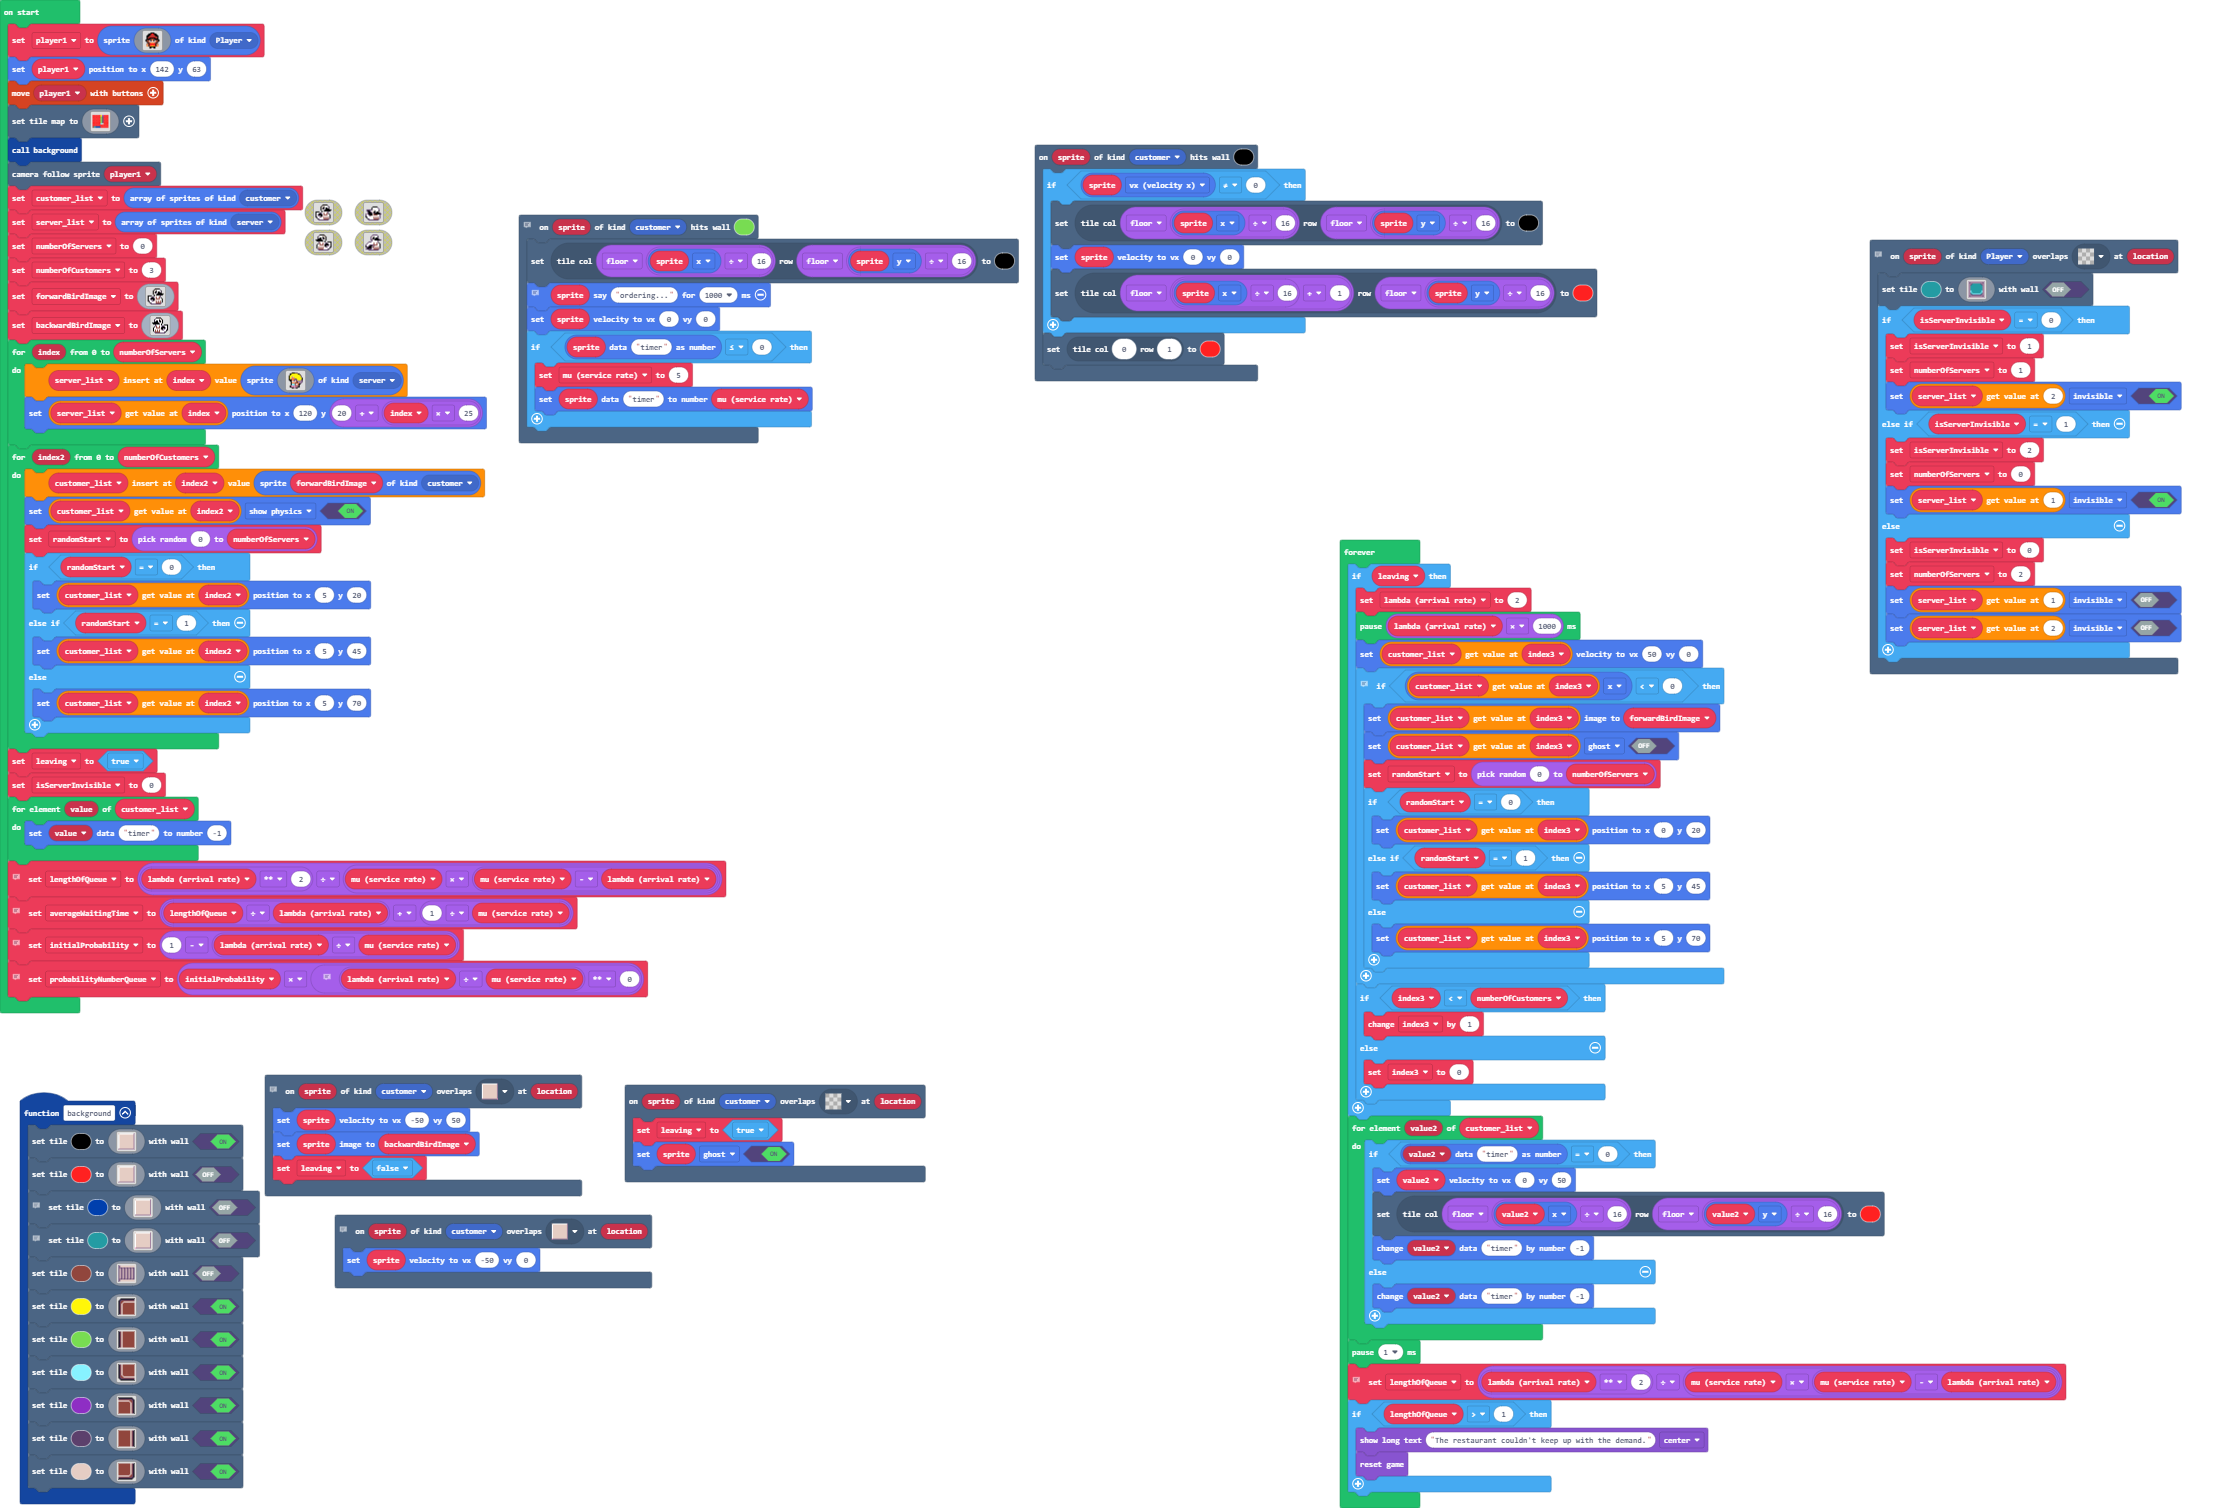
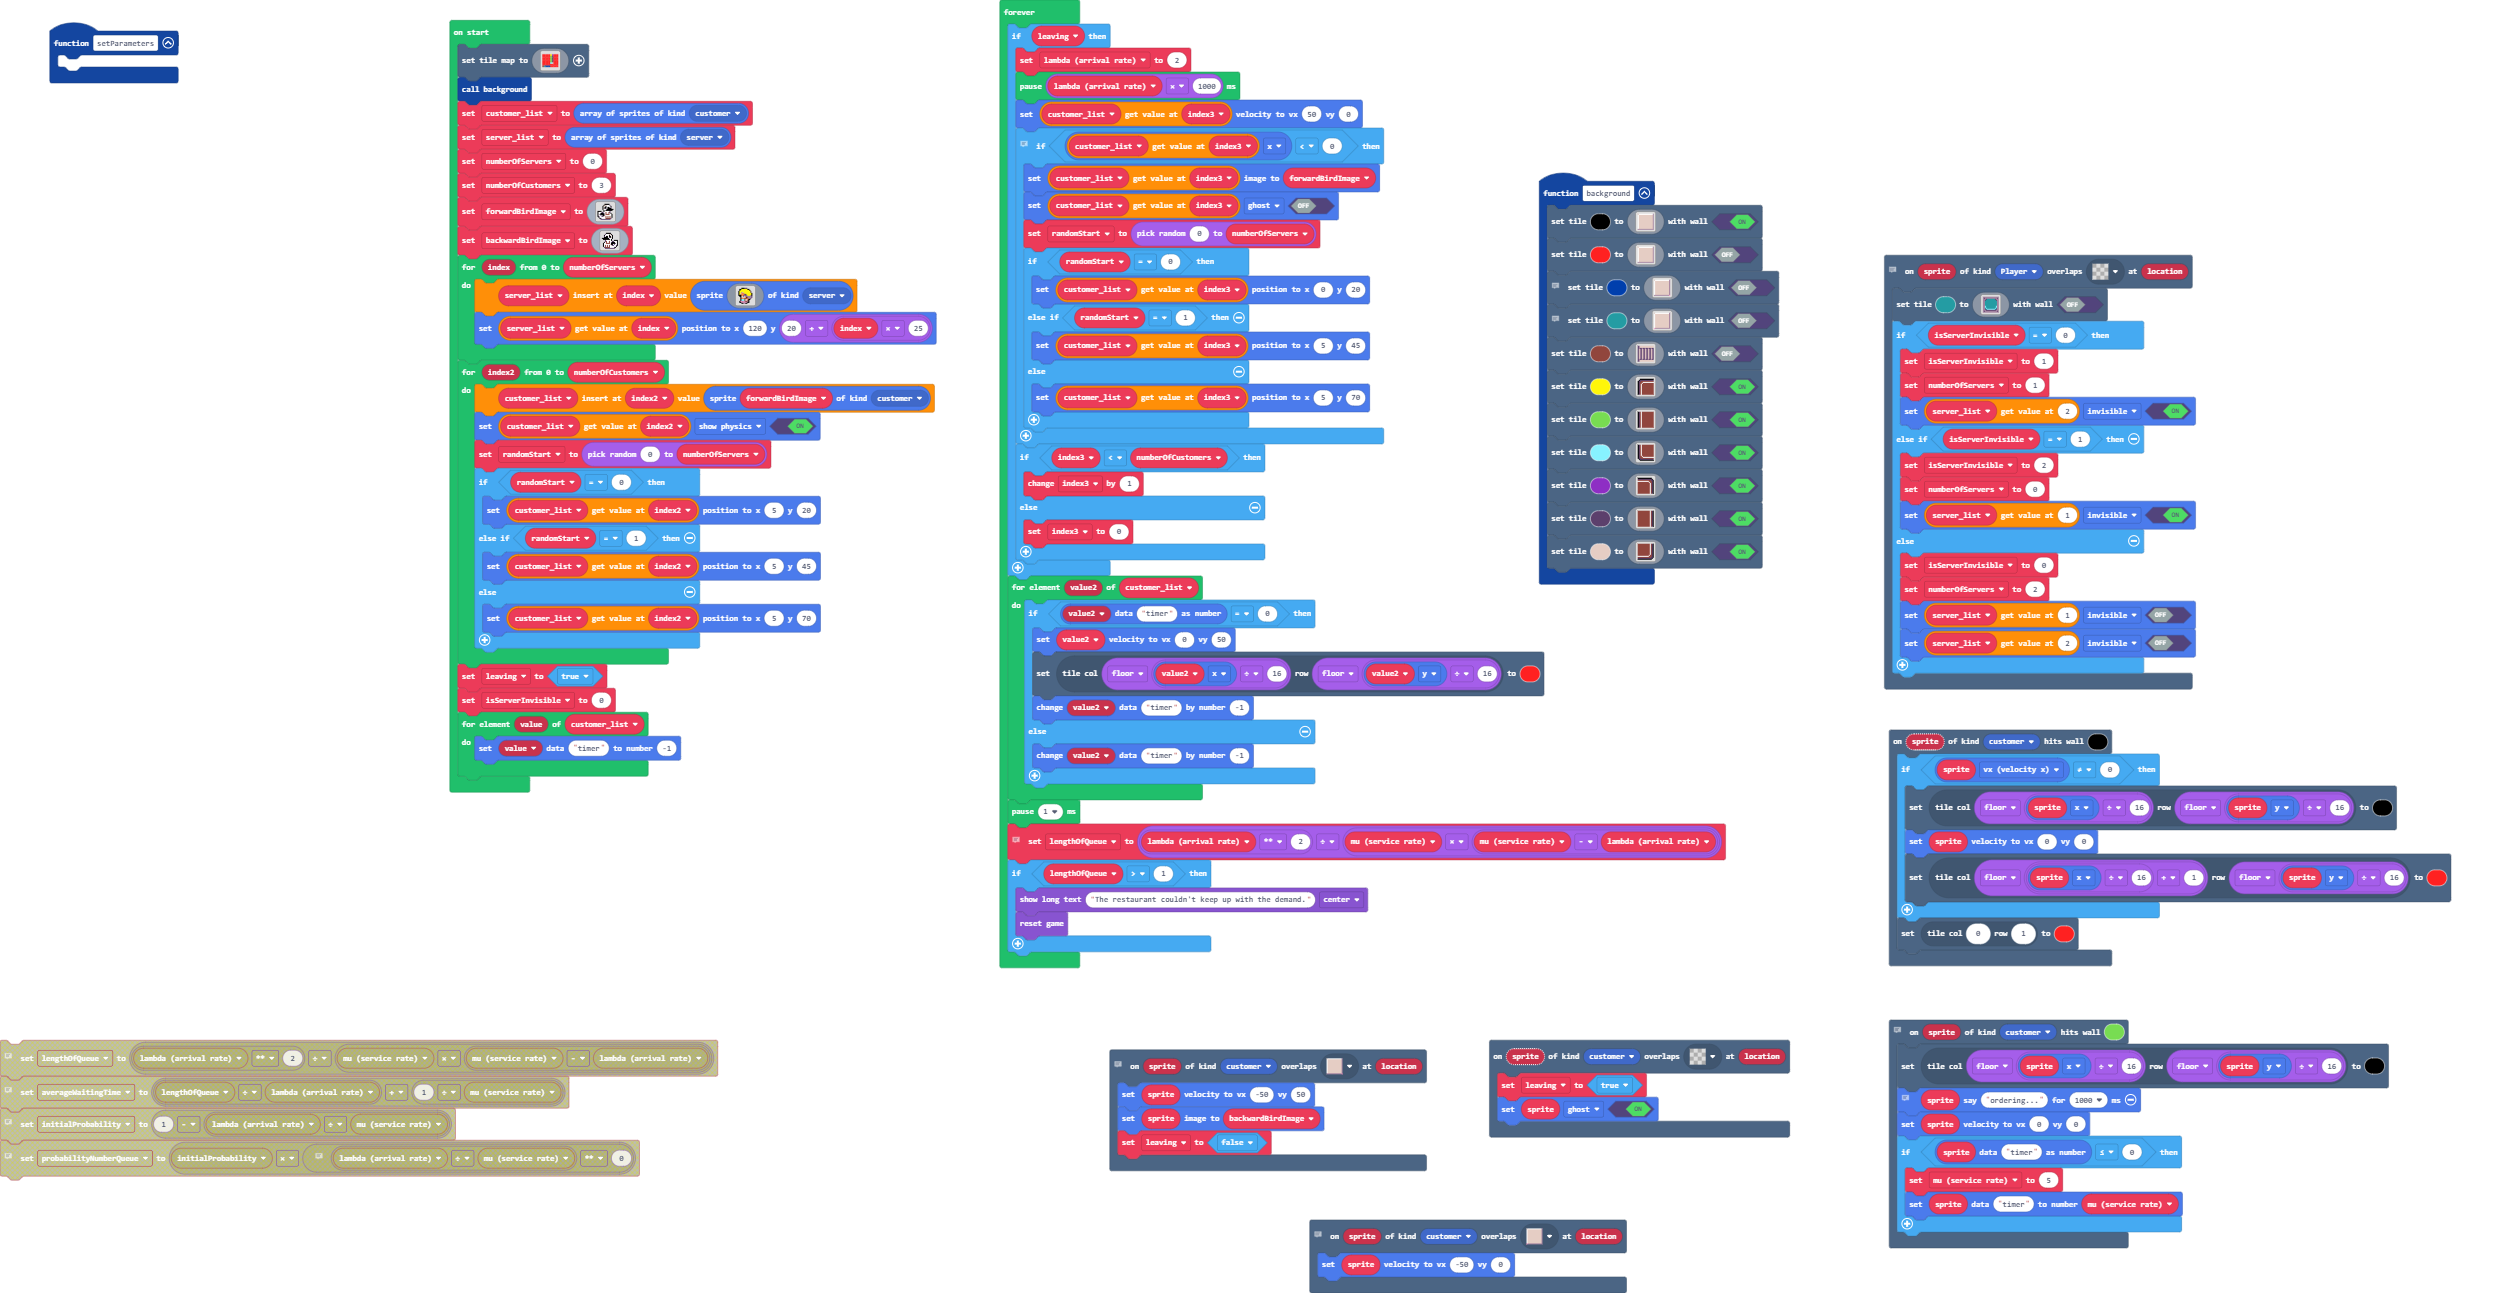
Update pxt.json, main.blocks, main.ts

diff --git a/main.ts b/main.ts
@@ -5,6 +5,9 @@ namespace SpriteKind {
     export const buttonPink = SpriteKind.create()
     export const server = SpriteKind.create()
 }
+function setParameters () {
+	
+}
 // number of servers
 scene.onOverlapTile(SpriteKind.Player, sprites.dungeon.buttonTeal, function (sprite, location) {
     scene.setTile(6, img`
@@ -275,35 +278,16 @@ scene.onHitTile(SpriteKind.customer, 7, function (sprite) {
 scene.onOverlapTile(SpriteKind.customer, myTiles.tile1, function (sprite, location) {
     sprite.setVelocity(-50, 0)
 })
+let lengthOfQueue = 0
 let index3 = 0
-let mu_service_rate = 0
 let lambda_arrival_rate = 0
+let mu_service_rate = 0
 let isServerInvisible = 0
 let leaving = false
 let randomStart = 0
 let backwardBirdImage: Image = null
 let numberOfServers = 0
 let server_list: Sprite[] = []
-let player1 = sprites.create(img`
-    . . . . . . f f f f . . . . . . 
-    . . . . f f f 2 2 f f f . . . . 
-    . . . f f f 2 2 2 2 f f f . . . 
-    . . f f f e e e e e e f f f . . 
-    . . f f e 2 2 2 2 2 2 e e f . . 
-    . . f e 2 f f f f f f 2 e f . . 
-    . . f f f f e e e e f f f f . . 
-    . f f e f b f 4 4 f b f e f f . 
-    . f e e 4 1 f d d f 1 4 e e f . 
-    . . f e e d d d d d d e e f . . 
-    . . . f e e 4 4 4 4 e e f . . . 
-    . . e 4 f 2 2 2 2 2 2 f 4 e . . 
-    . . 4 d f 2 2 2 2 2 2 f d 4 . . 
-    . . 4 4 f 4 4 5 5 4 4 f 4 4 . . 
-    . . . . . f f f f f f . . . . . 
-    . . . . . f f . . f f . . . . . 
-    `, SpriteKind.Player)
-player1.setPosition(142, 63)
-controller.moveSprite(player1)
 scene.setTileMap(img`
     2 2 2 2 2 5 a 2 2 2 
     2 2 2 2 2 7 c 2 2 2 
@@ -315,7 +299,6 @@ scene.setTileMap(img`
     e 6 8 8 8 2 2 2 2 2 
     `)
 background()
-scene.cameraFollowSprite(player1)
 let customer_list = sprites.allOfKind(SpriteKind.customer)
 server_list = sprites.allOfKind(SpriteKind.server)
 numberOfServers = 0
@@ -394,15 +377,6 @@ isServerInvisible = 0
 for (let value of customer_list) {
     sprites.setDataNumber(value, "timer", -1)
 }
-// slide 12
-let lengthOfQueue = lambda_arrival_rate ** 2 / (mu_service_rate * (mu_service_rate - lambda_arrival_rate))
-// slide 13
-let averageWaitingTime = lengthOfQueue / lambda_arrival_rate + 1 / mu_service_rate
-// slide 14
-let initialProbability = 1 - lambda_arrival_rate / mu_service_rate
-// slide 15
-// it's supposed to be to the power of 'n'
-let probabilityNumberQueue = initialProbability * (lambda_arrival_rate / mu_service_rate) ** 0
 forever(function () {
     if (leaving) {
         lambda_arrival_rate = 2
